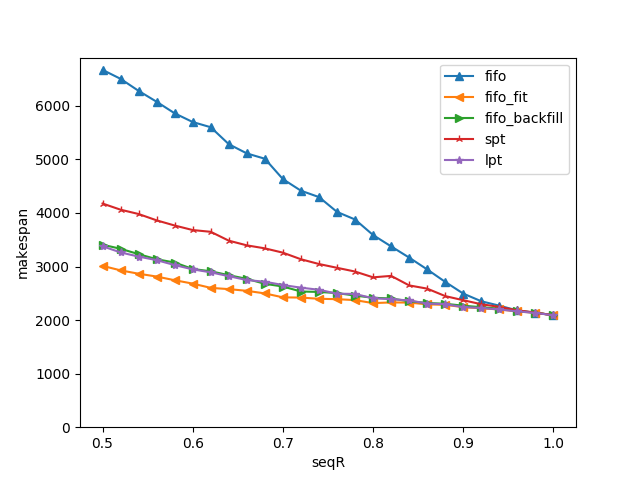
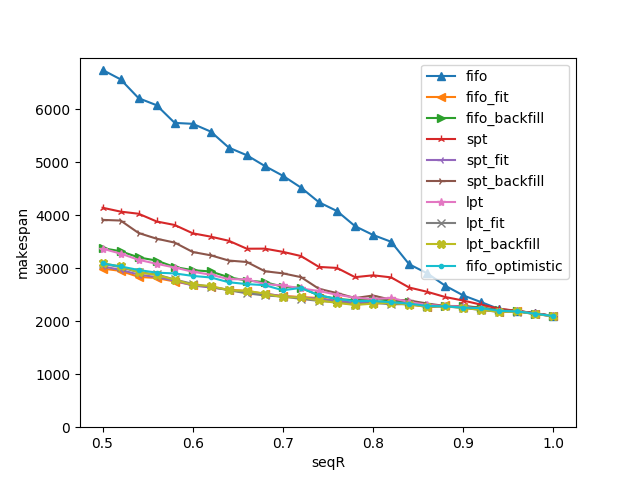
its late, lets commit

diff --git a/chapter/1-einleitung-hendrik.tex b/chapter/1-einleitung-hendrik.tex
@@ -7,7 +7,7 @@
 ---Die richtige Zuteilung von Rechenaufgaben auf unterschiedliche Ressourcen ist nicht erst seit dem Zeitalter der Cloud wichtig (super aktuelles paper einfügen). Dies war schon ein kritischer Bereich von Operations Research (WW2 OpsResearch Paper einfügen, idealerweise mit turing und so bla bla), als "Computer" noch ein Beruf war.
 --darauf weiter eingehen\\
 
-In der Ära der Mainframe Computer wurden simple Wartelisten, die von einem Operator(in) betreut wurden, nach und nach durch ausgeklügelte Systeme ersetzt (einfügen: ich hätte gerne so eine "history of Computing" mäßige Quelle). Heute übernimmt diese Aufgabe auf fast jedem Computer ein Betriebssystem, das sicherstellt, dass alle Prozesse mit Rechenzeit versorgt werden, während dem Benutzer gleichzeitig eine niedrige Antwortzeit seiner Eingaben geboten wird. Ein Rechenkluster hingegen kann nicht einfach wie ein Computer mit vielen Prozessorkernen behandelt werden. Zum einen ist eine vorzeitige Unterbrechung einer Berechnung enweder sehr teuer oder technisch kompliziert, fordert die Planung und Programmierung von checkpoints \cite{IPS15}, oder ist gar unmöglich.\\
+In der Ära der Mainframe Computer wurden simple Wartelisten, die von einem Operator(in) betreut wurden, nach und nach durch ausgeklügelte Systeme ersetzt (einfügen: ich hätte gerne so eine "history of Computing" mäßige Quelle). Heute übernimmt diese Aufgabe auf fast jedem Computer ein Betriebssystem, das sicherstellt, dass alle Prozesse mit Rechenzeit versorgt werden, während dem Benutzer gleichzeitig eine niedrige Antwortzeit seiner Eingaben geboten wird. Ein Rechenkluster hingegen kann nicht einfach wie ein Computer mit vielen Prozessorkernen behandelt werden. Zum einen ist eine vorzeitige Unterbrechung einer Berechnung enweder sehr teuer oder technisch kompliziert, fordert die Planung und Programmierung von checkpoints \cite{IPS15}, oder ist gar unmöglich (hier per anhalter durch die galaxis zitat einfügen).\\
 Zum anderen muss die Antwortzeit des Systems bei neuen Eingaben nicht im Millisekundenbereich liegen. Außerdem kann sich die Rechenleistung der einzelen Knoten eines Klusters um einen beliebig großen Faktor unterscheiden.  Des weiteren können Aufträge strikte Beschränkungen haben, welchen wievielen Knoten sie benötigen, um ausgeführt werden zu können.\\
 Da Experimente an echten Rechenklustern höchstens zur Validierung von Forschungsergebnissen durchführbar sind, werden solche Systeme in der Regel simmuliert.\\
 In dieser Arbeit werden zunächst relevante Grundlagen geschildert.

diff --git a/chapter/4-evaluation.tex b/chapter/4-evaluation.tex
@@ -78,6 +78,7 @@ Damit bleibt nur eine einzige Variable, der Anteil der langsamen Knoten im Klast
 \FloatBarrier
 
 \subsubsection{Experimente 4 bis 9}
+Ab Experiment 4 kann keine Vergleichbarkeit der Modelle mehr sichergestellt werden. Trozdem werden die Versuche nachgestellt, um die Algorithmen in \ref{chap:higher-order} gegen die fünf bekannten antreten zu lassen.
 
 
 \section{Weiterführende Untersuchungen}
@@ -86,7 +87,8 @@ Damit bleibt nur eine einzige Variable, der Anteil der langsamen Knoten im Klast
 \label{chap:higher-order}
 
 Die in Kapitel 2 vorgestellten Funktionen FirstFit und Backfilling sind nur Abwandelungen der FiFo Funktion. Beide wählen den nächsten Auftrag abhängig vom Einreihungszeitpunkt $q_j$, jedoch unter Einschränkungen. "FiFo-Fit" wählt den ersten unter den startbaren Aufträgen aus, "FiFo-BackFilling" wählt den ersten Auftrag, oder einen, der den Bearbeitungsbeginn des ersten Auftrags nicht verzögert. "-Fit" und "-Backfilling" fügen also einen relevanten Kontext hinzu. Es liegt nahe, diese Erweiterungen als Funktionen höherer Ordnung zu betrachten. Ihre Domäne besteht aus einer Scheduling Funktion, den wartenden Aufträgen und einen Kontext - Anzahl an verfügbaren Knoten oder die Abschlusszeitpunkte und die Parallelität der laufenden Aufträge -, und bilden diese partiell auf einen Auftrag ab. 
-Da FirstFit-Backfilling von [PaperZitat] als Sieger auserkohren wurde, LPT und GPT aber nicht im Backfilling Kontext untersucht wurden, wird im folgenden untersucht, ob LPT oder GPT mit -FirstFit oder -Backfilling ähnlich gute Ergebnisse erzielen können.
+Da FirstFit-Backfilling von [PaperZitat] als Sieger auserkohren wurde, LPT und GPT aber nicht im Backfilling Kontext untersucht wurden, wird im folgenden untersucht, ob LPT oder GPT mit -FirstFit oder -Backfilling ähnlich gute Ergebnisse erzielen können.\\
+In \ref{proptest} wird eine Abwandlung des Backfillings vorgestellt, das optimistische Backfilling. Dieses wird hier auch mit untersucht, allerdings nur im FiFo Kontext.
 
 \paragraph{GPT}
 lorem Ipsum
@@ -95,6 +97,7 @@ lorem Ipsum
 lorem Isumpdsfdsakfj
 
 
+\FloatBarrier
 
 \subsection{Property Based Testing zum Erkenntnisgewinn}
 \label{proptest}
